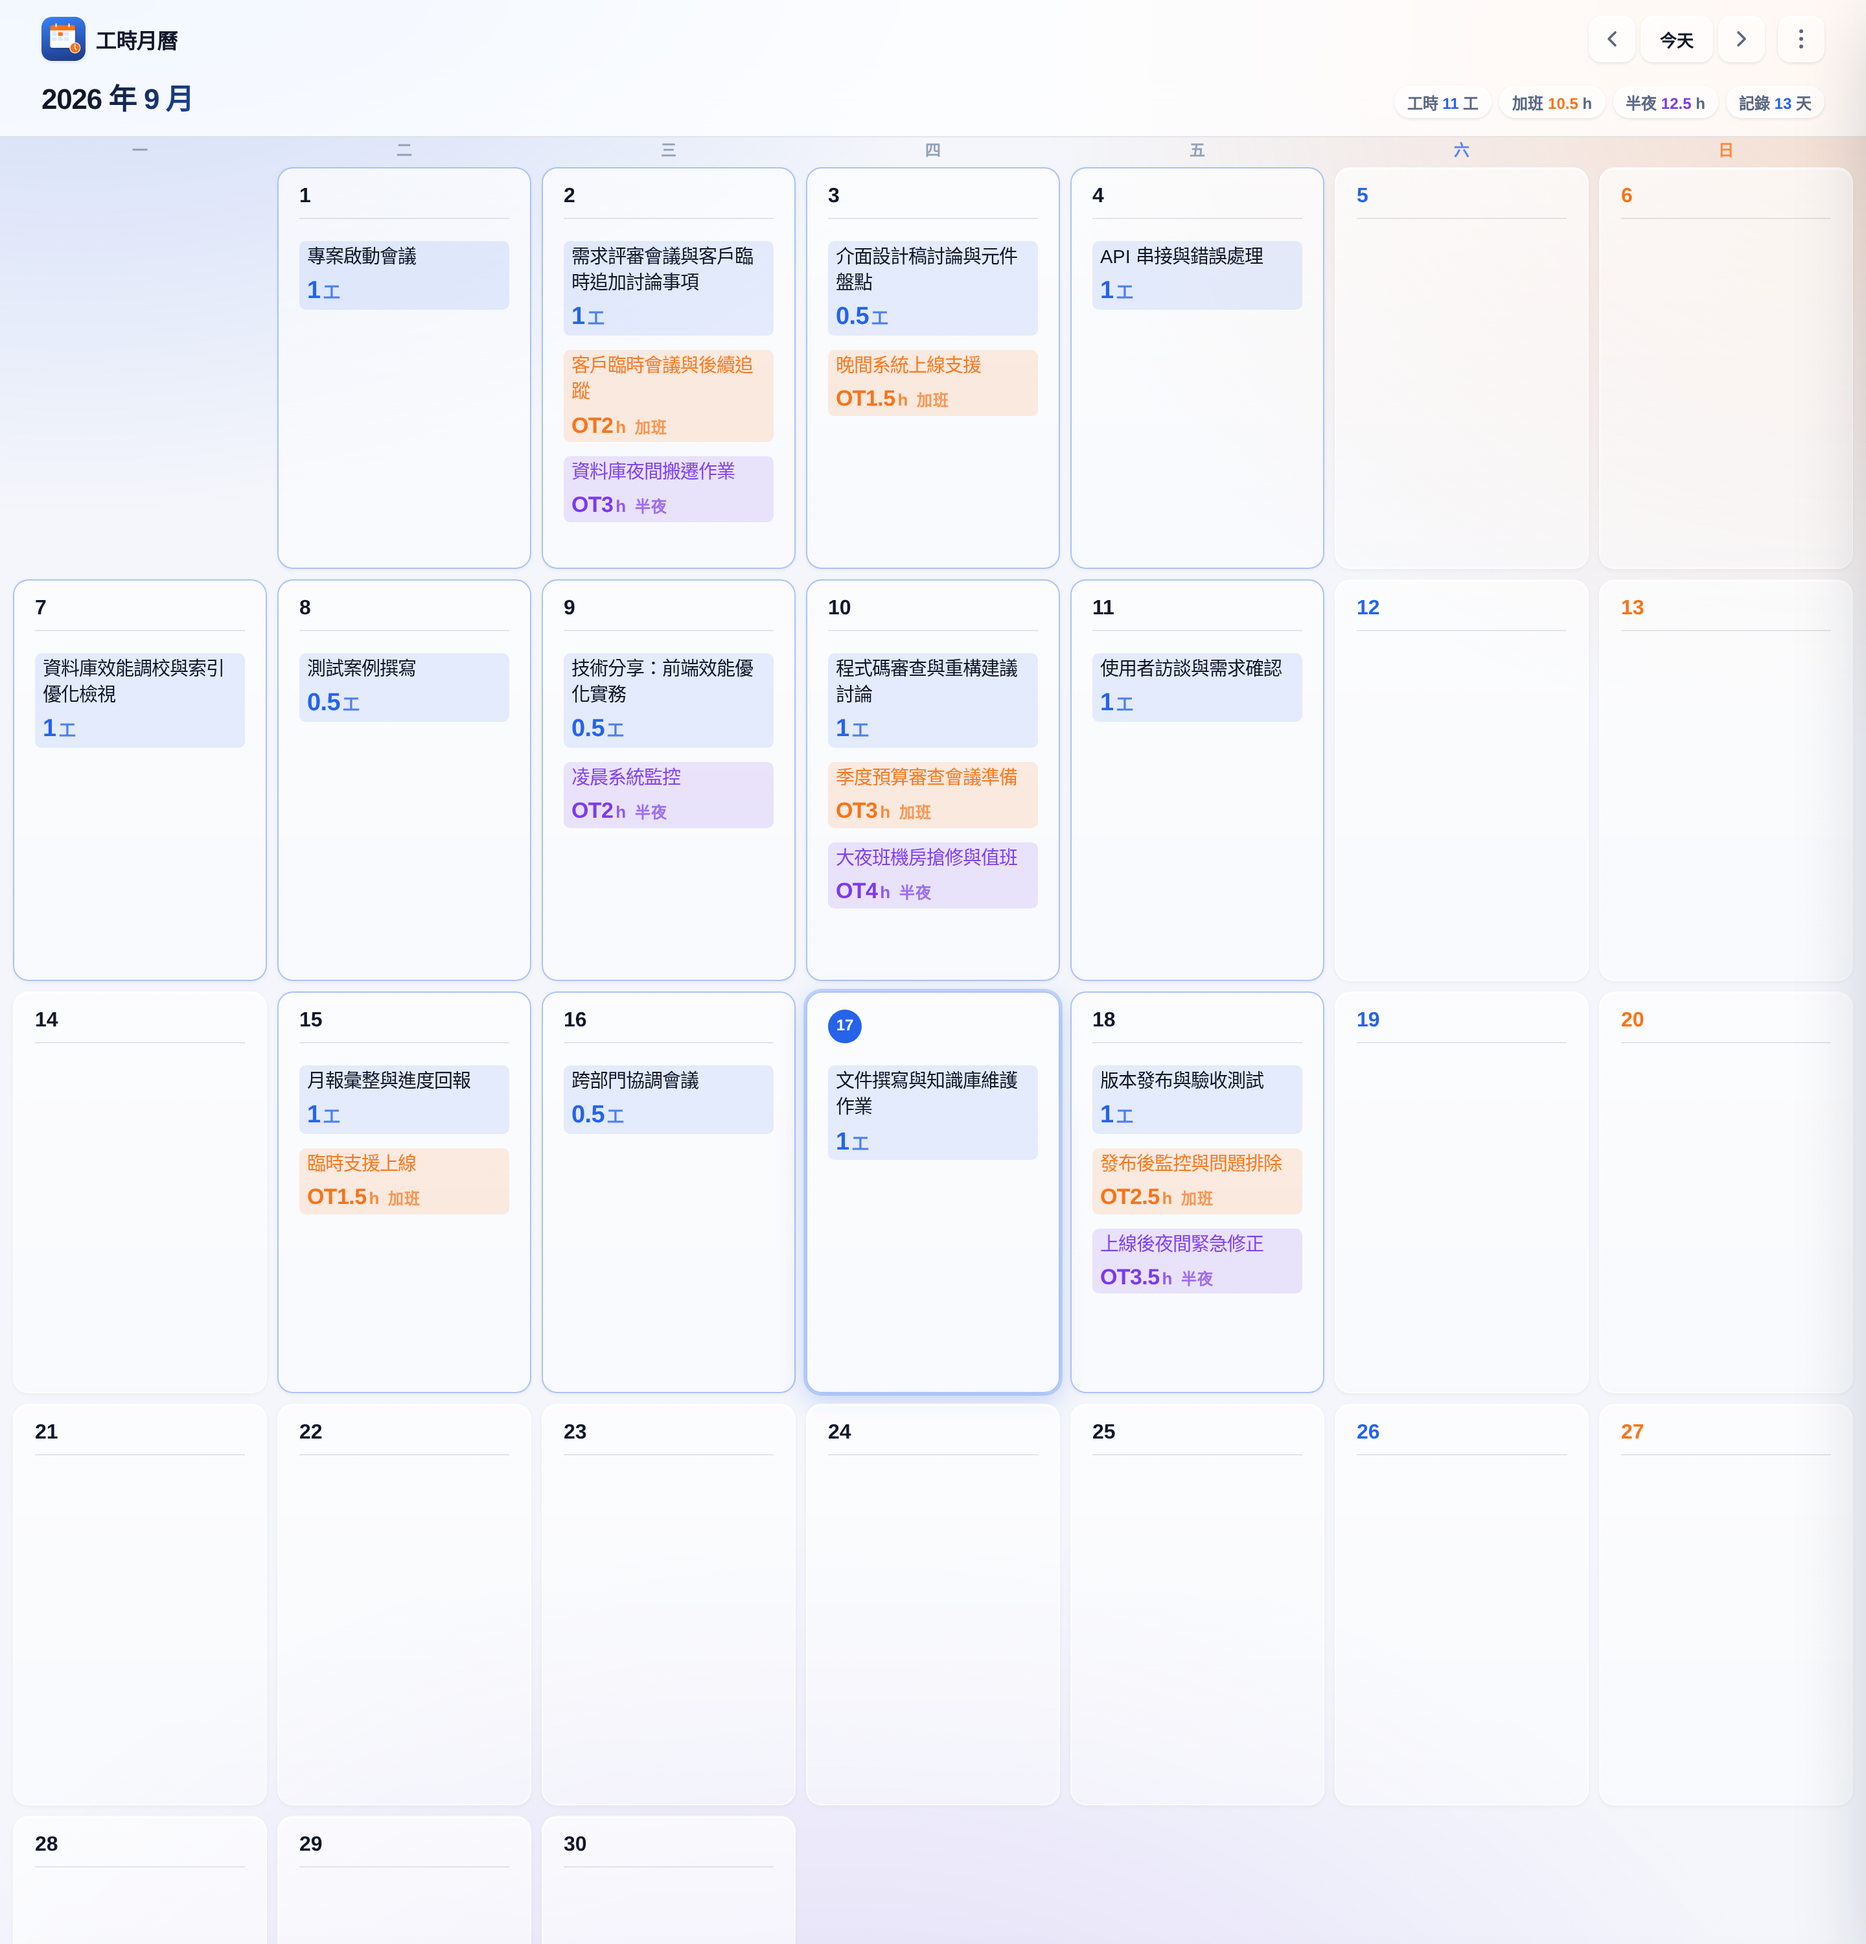
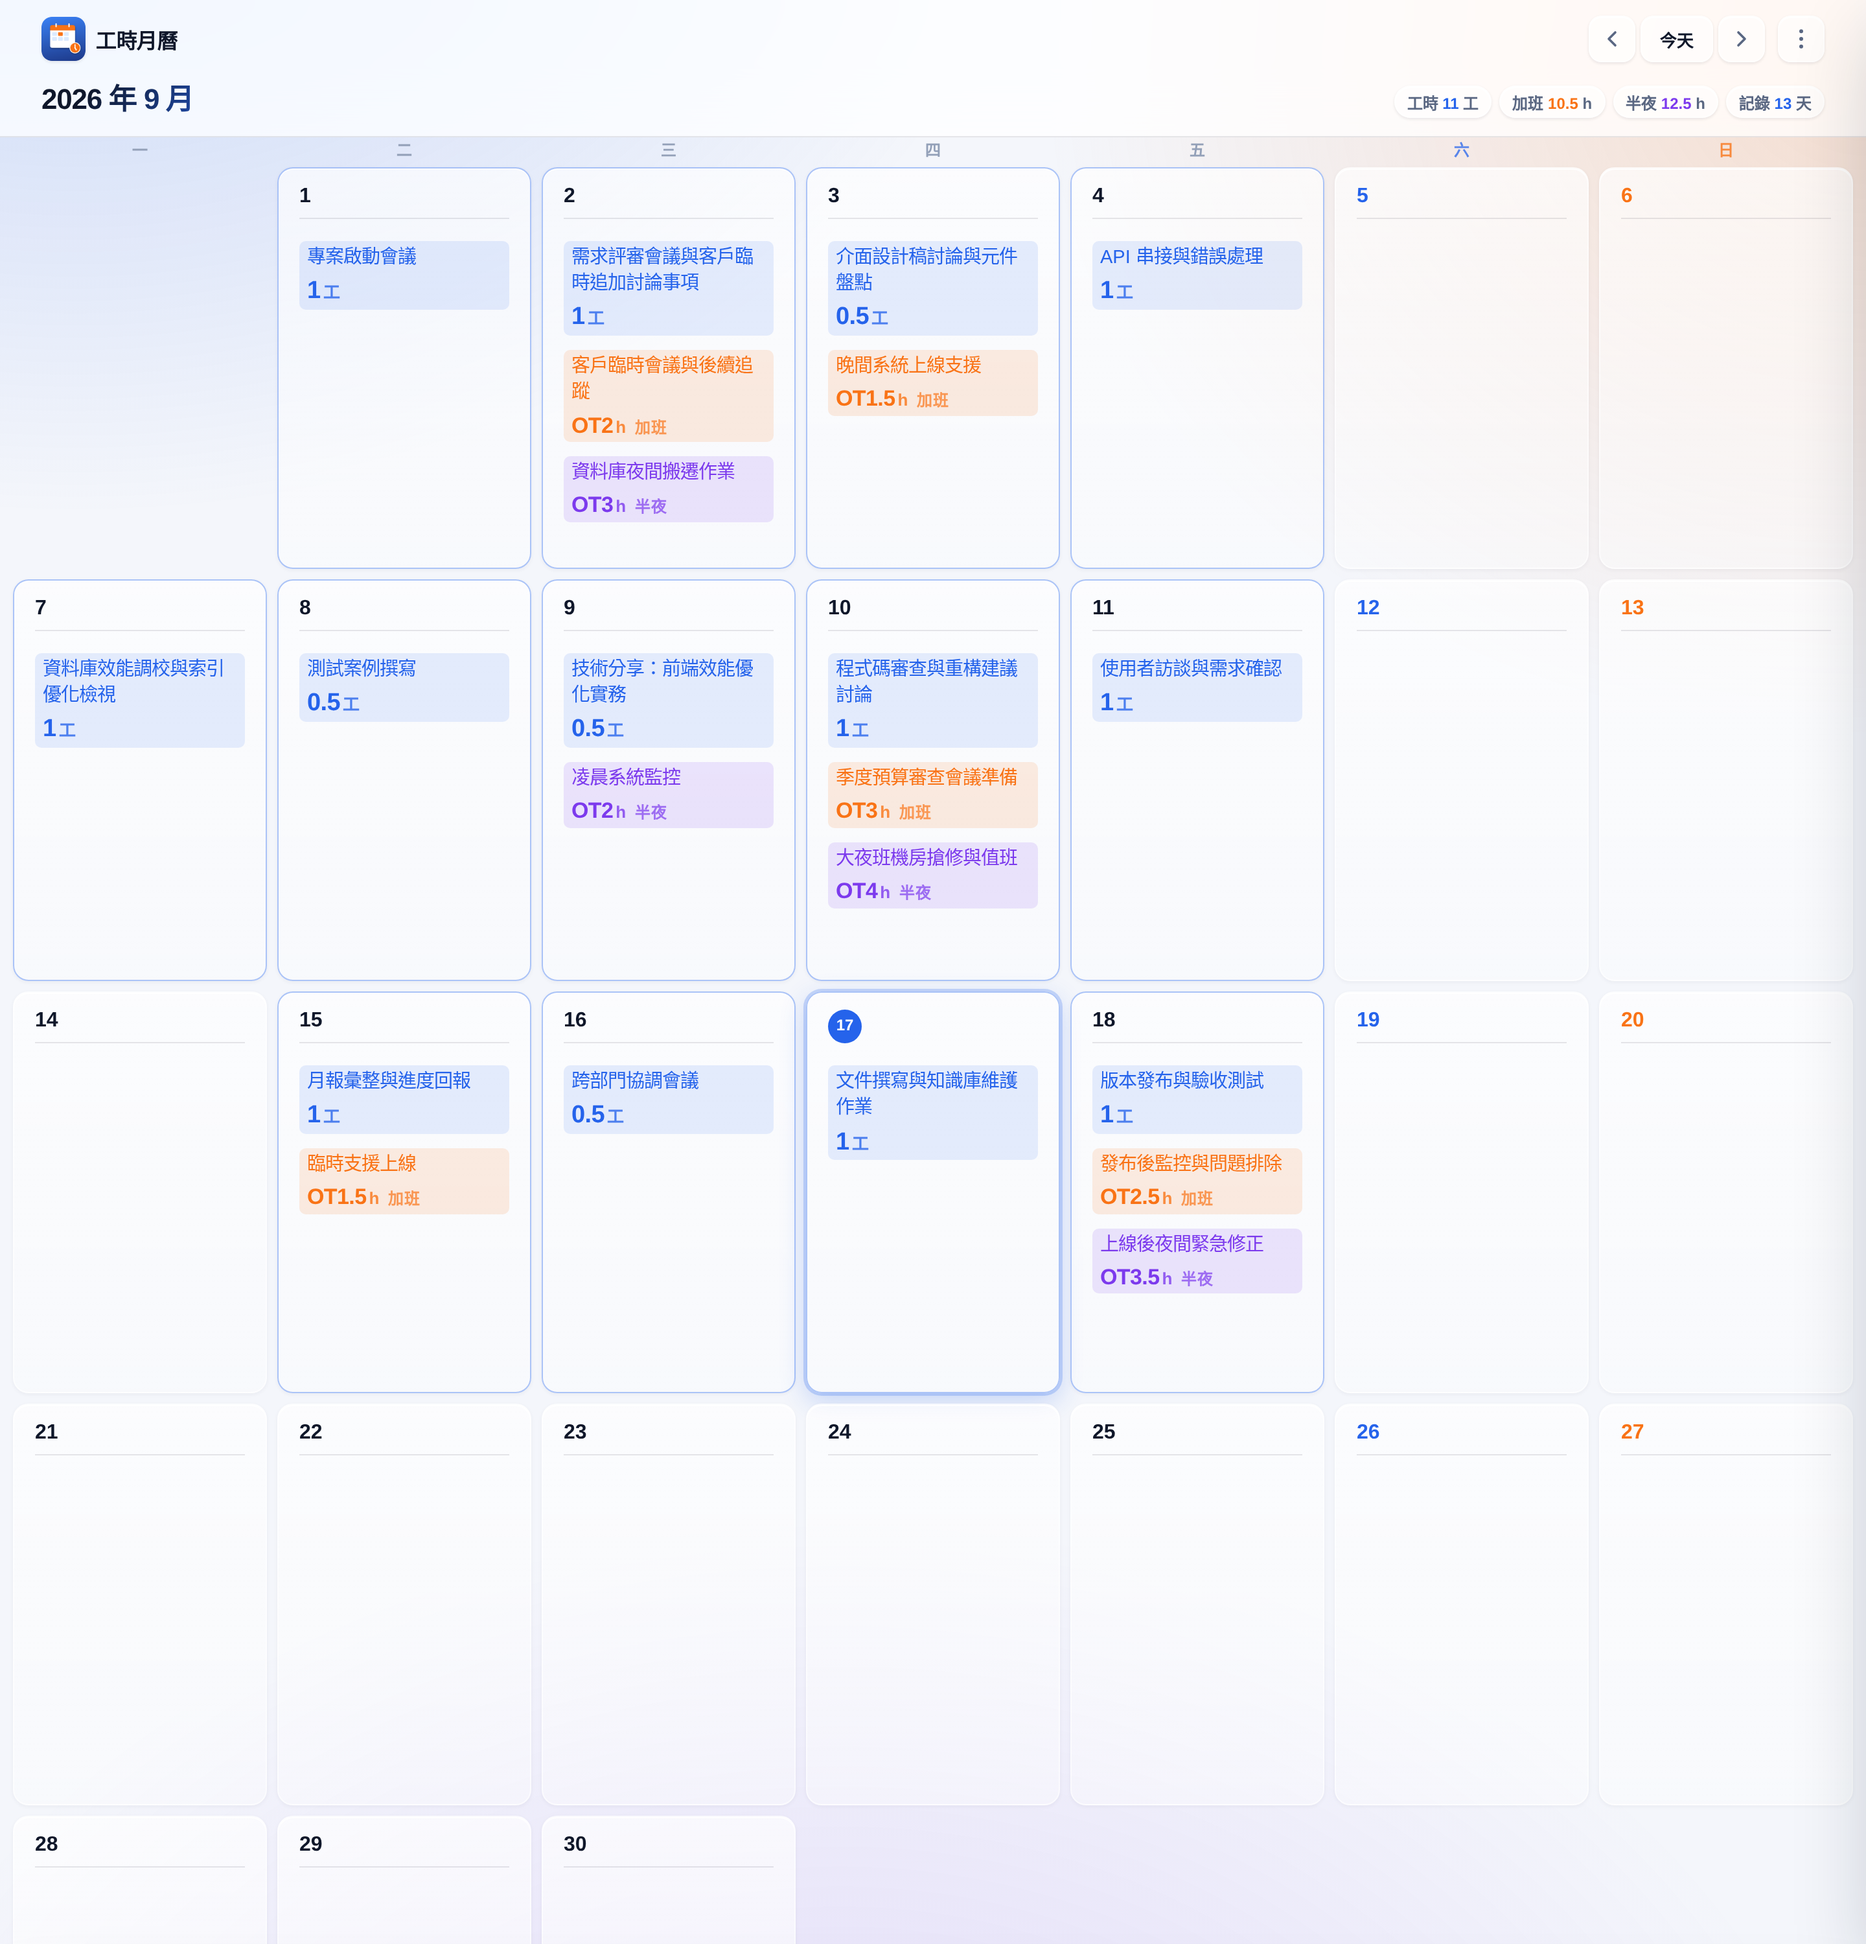
fix: 描述與數字同色、描述框一行高、移除例子提示 v1.17.1
- .day-desc 三組描述改用該組語意色（工時藍／加班橘／半夜紫），與數字完全一致（含手機 color-mix 調深版本與 ≥1000px 斷點）
- 三個描述 textarea rows=1（48px 一行高度，保留手動拉高）
- 移除描述框 placeholder 例子文字

diff --git a/worktime-calendar.standalone.html b/worktime-calendar.standalone.html
@@ -717,7 +717,9 @@ input, textarea { font-family: inherit; }
 .day-desc {
   font-size: 10.5px;
   line-height: 1.32;
-  color: var(--text-2);
+  /* 描述與同一組的數字同色（工時組＝藍）：使用者指定描述與工時字同色，
+     讓「這行文字屬於哪一組」由顏色直接表達，不再靠灰階區分 */
+  color: var(--work);
   overflow: hidden;
   display: -webkit-box;
   -webkit-box-orient: vertical;
@@ -727,8 +729,8 @@ input, textarea { font-family: inherit; }
   /* 描述在色塊內佔滿寬度，數字排在下一行 */
   flex: 0 1 auto;
 }
-.day-desc.ot-text { color: var(--ot); opacity: .95; }
-.day-desc.night-text { color: var(--night); opacity: .95; }
+.day-desc.ot-text { color: var(--ot); }
+.day-desc.night-text { color: var(--night); }
 
 .day-units {
   display: flex;
@@ -1408,7 +1410,8 @@ textarea::placeholder, input::placeholder { color: var(--text-3); }
     padding: 0;
     border-radius: 0;
     background: none;
-    color: color-mix(in srgb, var(--work) 88%, var(--text));
+    /* 與描述同色（工時組＝藍），組內描述與數字顏色完全一致 */
+    color: var(--work);
     justify-content: flex-start;
     text-align: left;
     margin: 0;
@@ -1418,12 +1421,12 @@ textarea::placeholder, input::placeholder { color: var(--text-3); }
   .day-units .ut { display: none; }
   .day-units.ot-units {
     font-size: 9px;
-    color: color-mix(in srgb, var(--ot) 92%, var(--text));
+    color: var(--ot);
   }
   /* 半夜加班色塊：紫色系，與工數、加班塊併排時仍分得開 */
   .day-units.night-units {
     font-size: 9px;
-    color: color-mix(in srgb, var(--night) 92%, var(--text));
+    color: var(--night);
   }
 
   .month-title { font-size: 19px; }
@@ -1531,7 +1534,7 @@ textarea::placeholder, input::placeholder { color: var(--text-3); }
     -webkit-box-orient: unset;
     font-size: 13.5px;
     line-height: 1.4;
-    color: var(--text);
+    color: var(--work);
     max-height: 2.8em;
     overflow: hidden;
   }
@@ -1734,7 +1737,7 @@ textarea::placeholder, input::placeholder { color: var(--text-3); }
 
       <div class="field">
         <label class="field-label" for="workDesc">描述</label>
-        <textarea id="workDesc" rows="3" placeholder="例：專案 A 開發、需求評審…"></textarea>
+        <textarea id="workDesc" rows="1"></textarea>
       </div>
 
       <div class="field">
@@ -1759,7 +1762,7 @@ textarea::placeholder, input::placeholder { color: var(--text-3); }
 
       <div class="field">
         <label class="field-label" for="otDesc">描述</label>
-        <textarea id="otDesc" rows="2" placeholder="例：上線支援、客戶會議…"></textarea>
+        <textarea id="otDesc" rows="1"></textarea>
       </div>
 
       <div class="field">
@@ -1782,7 +1785,7 @@ textarea::placeholder, input::placeholder { color: var(--text-3); }
 
       <div class="field">
         <label class="field-label" for="nightDesc">描述</label>
-        <textarea id="nightDesc" rows="2" placeholder="例：大夜班、凌晨搶修…"></textarea>
+        <textarea id="nightDesc" rows="1"></textarea>
       </div>
 
       <div class="field">
@@ -1934,8 +1937,8 @@ textarea::placeholder, input::placeholder { color: var(--text-3); }
   'use strict';
 
   // 由 bump-version.sh 自動維護
-  const APP_VERSION = '1.17.0';
-  const APP_BUILD = '20260917-1302';
+  const APP_VERSION = '1.17.1';
+  const APP_BUILD = '20260917-1342';
 
   const STORE_KEY = 'worktime-calendar:v1';
   const SETTINGS_KEY = 'worktime-calendar:settings:v1';

diff --git a/styles.css b/styles.css
@@ -703,7 +703,9 @@ input, textarea { font-family: inherit; }
 .day-desc {
   font-size: 10.5px;
   line-height: 1.32;
-  color: var(--text-2);
+  /* 描述與同一組的數字同色（工時組＝藍）：使用者指定描述與工時字同色，
+     讓「這行文字屬於哪一組」由顏色直接表達，不再靠灰階區分 */
+  color: var(--work);
   overflow: hidden;
   display: -webkit-box;
   -webkit-box-orient: vertical;
@@ -713,8 +715,8 @@ input, textarea { font-family: inherit; }
   /* 描述在色塊內佔滿寬度，數字排在下一行 */
   flex: 0 1 auto;
 }
-.day-desc.ot-text { color: var(--ot); opacity: .95; }
-.day-desc.night-text { color: var(--night); opacity: .95; }
+.day-desc.ot-text { color: var(--ot); }
+.day-desc.night-text { color: var(--night); }
 
 .day-units {
   display: flex;
@@ -1394,7 +1396,8 @@ textarea::placeholder, input::placeholder { color: var(--text-3); }
     padding: 0;
     border-radius: 0;
     background: none;
-    color: color-mix(in srgb, var(--work) 88%, var(--text));
+    /* 與描述同色（工時組＝藍），組內描述與數字顏色完全一致 */
+    color: var(--work);
     justify-content: flex-start;
     text-align: left;
     margin: 0;
@@ -1404,12 +1407,12 @@ textarea::placeholder, input::placeholder { color: var(--text-3); }
   .day-units .ut { display: none; }
   .day-units.ot-units {
     font-size: 9px;
-    color: color-mix(in srgb, var(--ot) 92%, var(--text));
+    color: var(--ot);
   }
   /* 半夜加班色塊：紫色系，與工數、加班塊併排時仍分得開 */
   .day-units.night-units {
     font-size: 9px;
-    color: color-mix(in srgb, var(--night) 92%, var(--text));
+    color: var(--night);
   }
 
   .month-title { font-size: 19px; }
@@ -1517,7 +1520,7 @@ textarea::placeholder, input::placeholder { color: var(--text-3); }
     -webkit-box-orient: unset;
     font-size: 13.5px;
     line-height: 1.4;
-    color: var(--text);
+    color: var(--work);
     max-height: 2.8em;
     overflow: hidden;
   }

diff --git a/index.html b/index.html
@@ -79,7 +79,7 @@
 
       <div class="field">
         <label class="field-label" for="workDesc">描述</label>
-        <textarea id="workDesc" rows="3" placeholder="例：專案 A 開發、需求評審…"></textarea>
+        <textarea id="workDesc" rows="1"></textarea>
       </div>
 
       <div class="field">
@@ -104,7 +104,7 @@
 
       <div class="field">
         <label class="field-label" for="otDesc">描述</label>
-        <textarea id="otDesc" rows="2" placeholder="例：上線支援、客戶會議…"></textarea>
+        <textarea id="otDesc" rows="1"></textarea>
       </div>
 
       <div class="field">
@@ -127,7 +127,7 @@
 
       <div class="field">
         <label class="field-label" for="nightDesc">描述</label>
-        <textarea id="nightDesc" rows="2" placeholder="例：大夜班、凌晨搶修…"></textarea>
+        <textarea id="nightDesc" rows="1"></textarea>
       </div>
 
       <div class="field">

diff --git a/app.js b/app.js
@@ -7,8 +7,8 @@
   'use strict';
 
   // 由 bump-version.sh 自動維護
-  const APP_VERSION = '1.17.0';
-  const APP_BUILD = '20260917-1302';
+  const APP_VERSION = '1.17.1';
+  const APP_BUILD = '20260917-1342';
 
   const STORE_KEY = 'worktime-calendar:v1';
   const SETTINGS_KEY = 'worktime-calendar:settings:v1';

diff --git a/sw.js b/sw.js
@@ -8,7 +8,7 @@
  *   4. controllerchange 觸發，頁面重新載入即為新版
  * ========================================================= */
 
-const CACHE = 'worktime-calendar-v1.17.0';
+const CACHE = 'worktime-calendar-v1.17.1';
 const PRECACHE = [
   './',
   './index.html',
